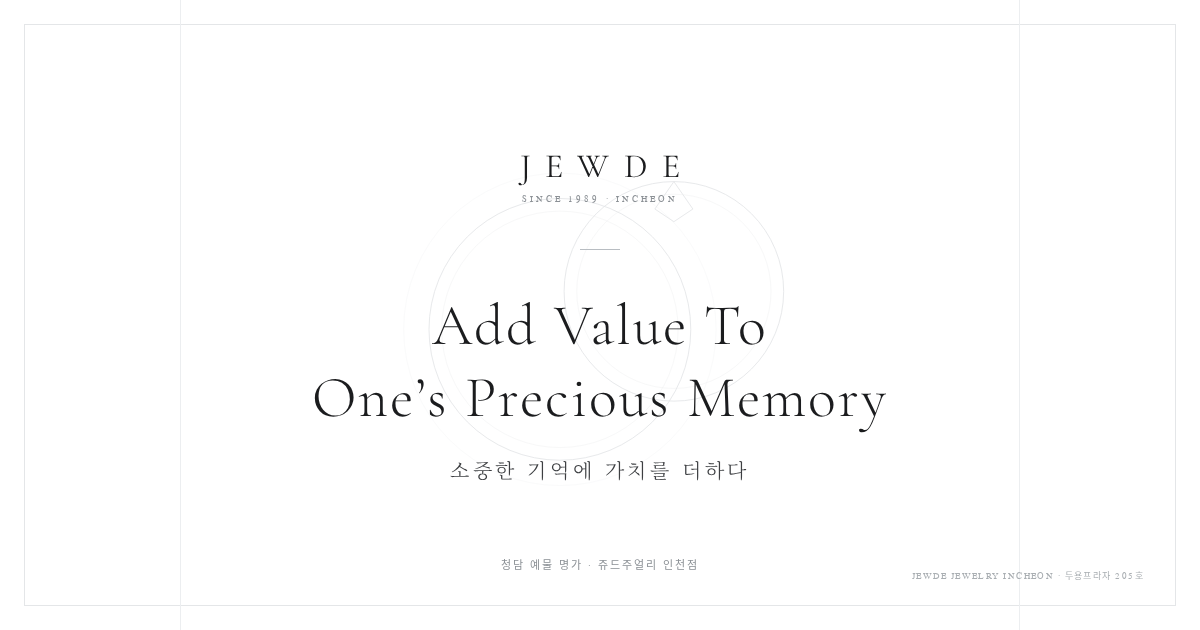
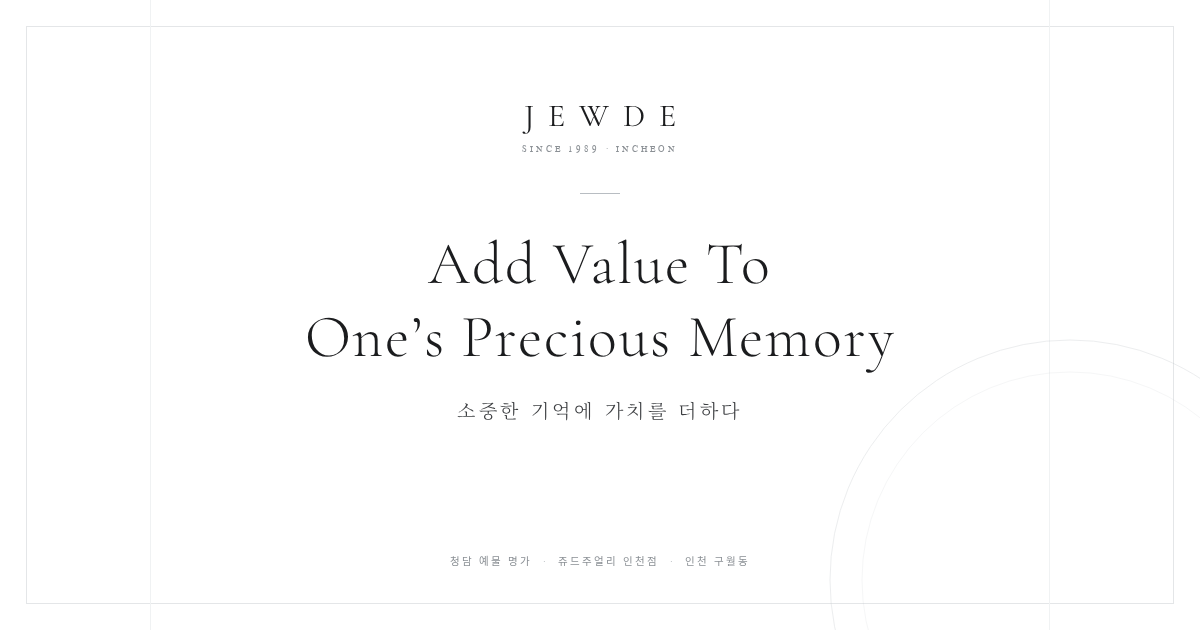
OG 이미지 정리 및 README 추가

diff --git a/assets/og.html b/assets/og.html
@@ -10,35 +10,35 @@
     background: #fff;
     color: #1b1c1e;
     font-family: "Noto Serif KR", serif;
-    display: flex; align-items: center; justify-content: center;
     position: relative; overflow: hidden;
   }
-  .frame { position: absolute; inset: 24px; border: 1px solid #e4e6e8; }
-  .rings { position: absolute; top: 50%; left: 50%; width: 760px; transform: translate(-50%, -52%); color: #b8bdc2; opacity: .38; }
+  .frame { position: absolute; inset: 26px; border: 1px solid #e4e6e8; }
+  .ring { position: absolute; right: -150px; bottom: -230px; color: #b8bdc2; opacity: .32; }
   .lines::before, .lines::after {
-    content: ""; position: absolute; top: 0; bottom: 0; width: 1px; background: #eceef0;
+    content: ""; position: absolute; top: 0; bottom: 0; width: 1px; background: #f0f2f3;
   }
-  .lines::before { left: 180px; } .lines::after { right: 180px; }
-  .center { position: relative; text-align: center; }
-  .logo { font-family: "Cormorant Garamond", serif; font-size: 34px; letter-spacing: .42em; padding-left: .42em; }
-  .since { margin-top: 8px; font-family: sans-serif; font-size: 9px; letter-spacing: .34em; color: #8b9095; }
-  .rule { width: 40px; height: 1px; background: #b8bdc2; margin: 44px auto 40px; }
-  .en { font-family: "Cormorant Garamond", serif; font-weight: 300; font-size: 58px; line-height: 1.24; letter-spacing: .035em; }
-  .ko { margin-top: 22px; font-size: 20px; font-weight: 300; letter-spacing: .18em; color: #3d3f42; }
-  .bottom { position: absolute; left: 0; right: 0; bottom: 58px; text-align: center; font-family: sans-serif; font-size: 11px; letter-spacing: .18em; color: #8b9095; }
-  .store { position: absolute; right: 56px; bottom: 48px; font-family: sans-serif; font-size: 9px; letter-spacing: .16em; color: #a9aeb2; }
+  .lines::before { left: 150px; } .lines::after { right: 150px; }
+  .center {
+    position: absolute; left: 0; right: 0; top: 96px; text-align: center;
+  }
+  .logo { font-family: "Cormorant Garamond", serif; font-size: 32px; letter-spacing: .44em; padding-left: .44em; }
+  .since { margin-top: 10px; font-family: sans-serif; font-size: 9px; letter-spacing: .34em; color: #8b9095; }
+  .rule { width: 40px; height: 1px; background: #b8bdc2; margin: 38px auto 34px; }
+  .en { font-family: "Cormorant Garamond", serif; font-weight: 300; font-size: 60px; line-height: 1.22; letter-spacing: .03em; }
+  .ko { margin-top: 22px; font-size: 19px; font-weight: 300; letter-spacing: .18em; color: #3d3f42; }
+  .bottom {
+    position: absolute; left: 0; right: 0; bottom: 62px; text-align: center;
+    font-family: sans-serif; font-size: 10.5px; letter-spacing: .2em; color: #8b9095;
+  }
+  .bottom span { color: #b3b8bc; margin: 0 10px; }
 </style>
 </head>
 <body>
   <div class="frame"></div>
   <div class="lines"></div>
-  <svg class="rings" viewBox="0 0 720 420" fill="none" xmlns="http://www.w3.org/2000/svg">
-    <circle cx="322" cy="232" r="124" stroke="currentColor" stroke-width="0.8"/>
-    <circle cx="322" cy="232" r="112" stroke="currentColor" stroke-width="0.4" opacity="0.65"/>
-    <circle cx="322" cy="232" r="148" stroke="currentColor" stroke-width="0.35" opacity="0.45"/>
-    <circle cx="430" cy="196" r="104" stroke="currentColor" stroke-width="0.8"/>
-    <circle cx="430" cy="196" r="92" stroke="currentColor" stroke-width="0.4" opacity="0.65"/>
-    <path d="M430 92 L448 118 L430 130 L412 118 Z" stroke="currentColor" stroke-width="0.8"/>
+  <svg class="ring" width="560" height="560" viewBox="0 0 560 560" fill="none" xmlns="http://www.w3.org/2000/svg">
+    <circle cx="280" cy="280" r="240" stroke="currentColor" stroke-width="0.8"/>
+    <circle cx="280" cy="280" r="208" stroke="currentColor" stroke-width="0.4"/>
   </svg>
   <div class="center">
     <div class="logo">JEWDE</div>
@@ -47,7 +47,6 @@
     <div class="en">Add Value To<br>One’s Precious Memory</div>
     <div class="ko">소중한 기억에 가치를 더하다</div>
   </div>
-  <div class="bottom">청담 예물 명가 · 쥬드주얼리 인천점</div>
-  <div class="store">JEWDE JEWELRY INCHEON · 두용프라자 205호</div>
+  <div class="bottom">청담 예물 명가<span>·</span>쥬드주얼리 인천점<span>·</span>인천 구월동</div>
 </body>
 </html>

diff --git a/README.md b/README.md
@@ -1,0 +1,47 @@
+# 쥬드주얼리 인천점 — 원페이지 홈페이지
+
+청담 예물 명가 쥬드주얼리의 인천점 공식 안내 페이지입니다.
+https://jewde-incheon.vercel.app
+
+## 구성
+
+| 파일 | 설명 |
+|---|---|
+| `index.html` | 페이지 전체(문구·섹션·구조화 데이터 JSON-LD) |
+| `styles.css` | 색·서체·여백·반응형 (`:root` 변수) |
+| `script.js` | 헤더·모바일 메뉴·스크롤 효과·FAQ·카카오 안내 모달 |
+| `assets/map.jpg` | 매장 주변 약도 (OpenStreetMap 타일, 2026-11 생성) |
+| `assets/og-image.png` | 카카오톡·SNS 공유 썸네일 (1200×630) |
+| `robots.txt`, `sitemap.xml` | 검색엔진 수집 설정 |
+
+## 수정 방법
+
+```bash
+# 파일 수정 후
+git add -A
+git commit -m "문구 수정"
+git push
+```
+
+`main` 브랜치에 푸시하면 Vercel이 자동으로 Production에 다시 배포합니다.
+
+## 자주 고치는 곳
+
+- **카카오톡 채널 링크**: `script.js` 맨 위 `KAKAO_CHANNEL_URL` 상수에 채널 주소를 넣으면
+  카카오톡 상담 버튼이 안내 모달 대신 채널로 바로 연결됩니다.
+- **네이버 예약**: `index.html`의 `https://booking.naver.com/booking/6/bizes/1389525`
+- **블로그·인스타·플레이스**: `index.html`의 각 채널 링크
+- **주소·전화·운영시간**: `index.html`의 `#visit` 섹션과 `<footer>`, 그리고 JSON-LD
+  (`JewelryStore`) 세 곳을 함께 수정합니다.
+- **공유 썸네일**: `assets/og.html`을 고친 뒤 스크립트로 `og-image.png`를 다시 캡처합니다.
+
+## 배포
+
+- GitHub: `makjang97-prog/jewde-incheon` (public)
+- Vercel: 프로젝트 `jewde-incheon` (팀 `maisonyoung`, Hobby)
+- Production: https://jewde-incheon.vercel.app
+
+## 주의
+
+- 본사(`jewde.com`)의 대표자·사업자 정보는 이 페이지에 넣지 않습니다. 인천점 정보만 표기합니다.
+- 함채헌 공방 경력은 **30년 이상**으로만 표기합니다.
